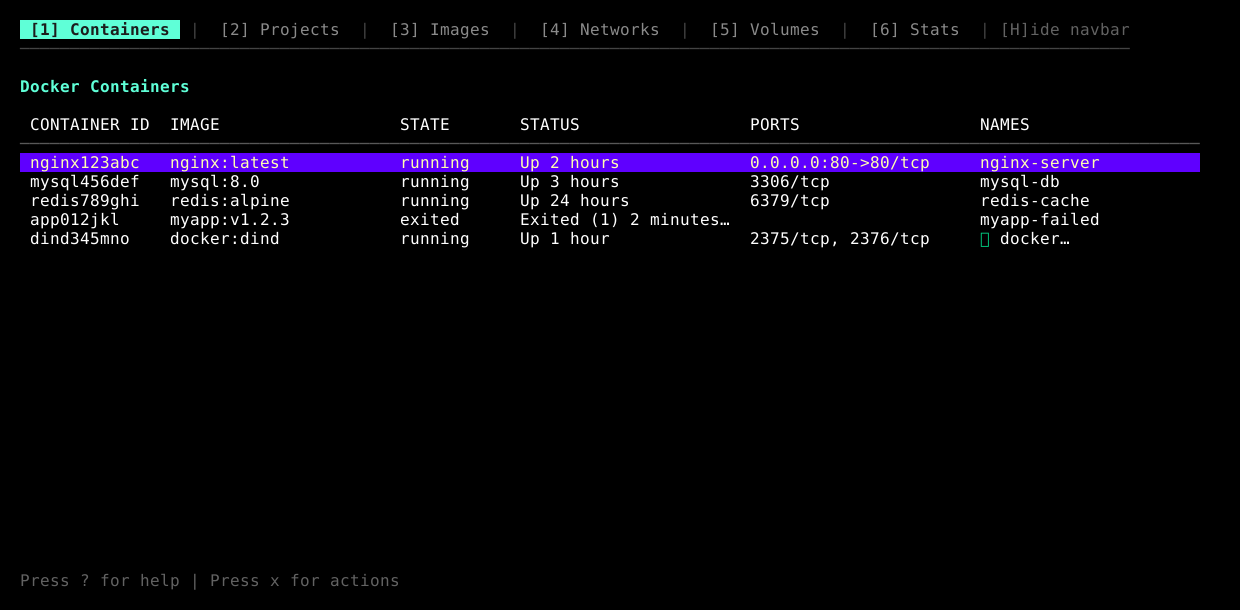
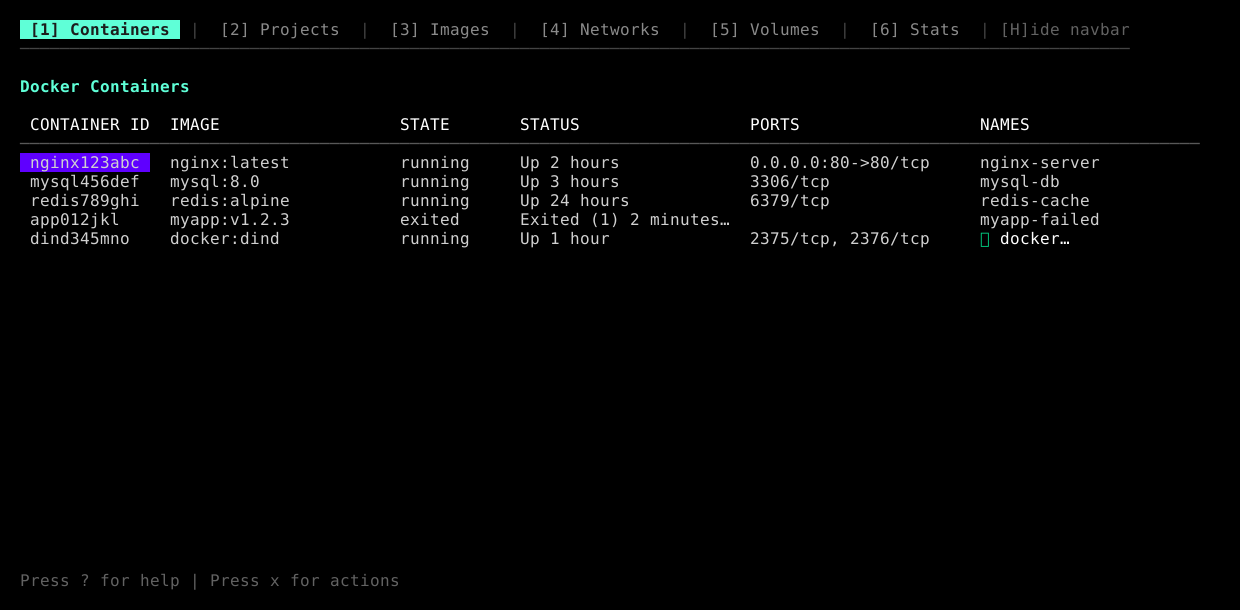
fix: improve table cell styling for proper screenshot rendering
- Add Cell style to RenderTable to ensure proper text color
- Set foreground color for normal cells to lipgloss.Color("252")
- Fixes screenshot rendering issues with missing cell styles
- Consistent with unfocused table rendering

This ensures all table cells have proper styling, not just the
selected row, which is crucial for screenshot generation.

🤖 Generated with [Claude Code](https://claude.ai/code)

Changed region(s): [[0.0306, 0.2492, 0.9806, 0.4049], [0.6129, 0.3738, 0.7355, 0.4049], [0.521, 0.3426, 0.5823, 0.3738]]

diff --git a/internal/ui/table.go b/internal/ui/table.go
@@ -24,6 +24,8 @@ func RenderTable(columns []table.Column, rows []table.Row, availableHeight int, 
 		Foreground(lipgloss.Color("229")).
 		Background(lipgloss.Color("57")).
 		Bold(false)
+	tableStyle.Cell = tableStyle.Cell.
+		Foreground(lipgloss.Color("252"))
 
 	t.SetStyles(tableStyle)
 	t.Focus()
